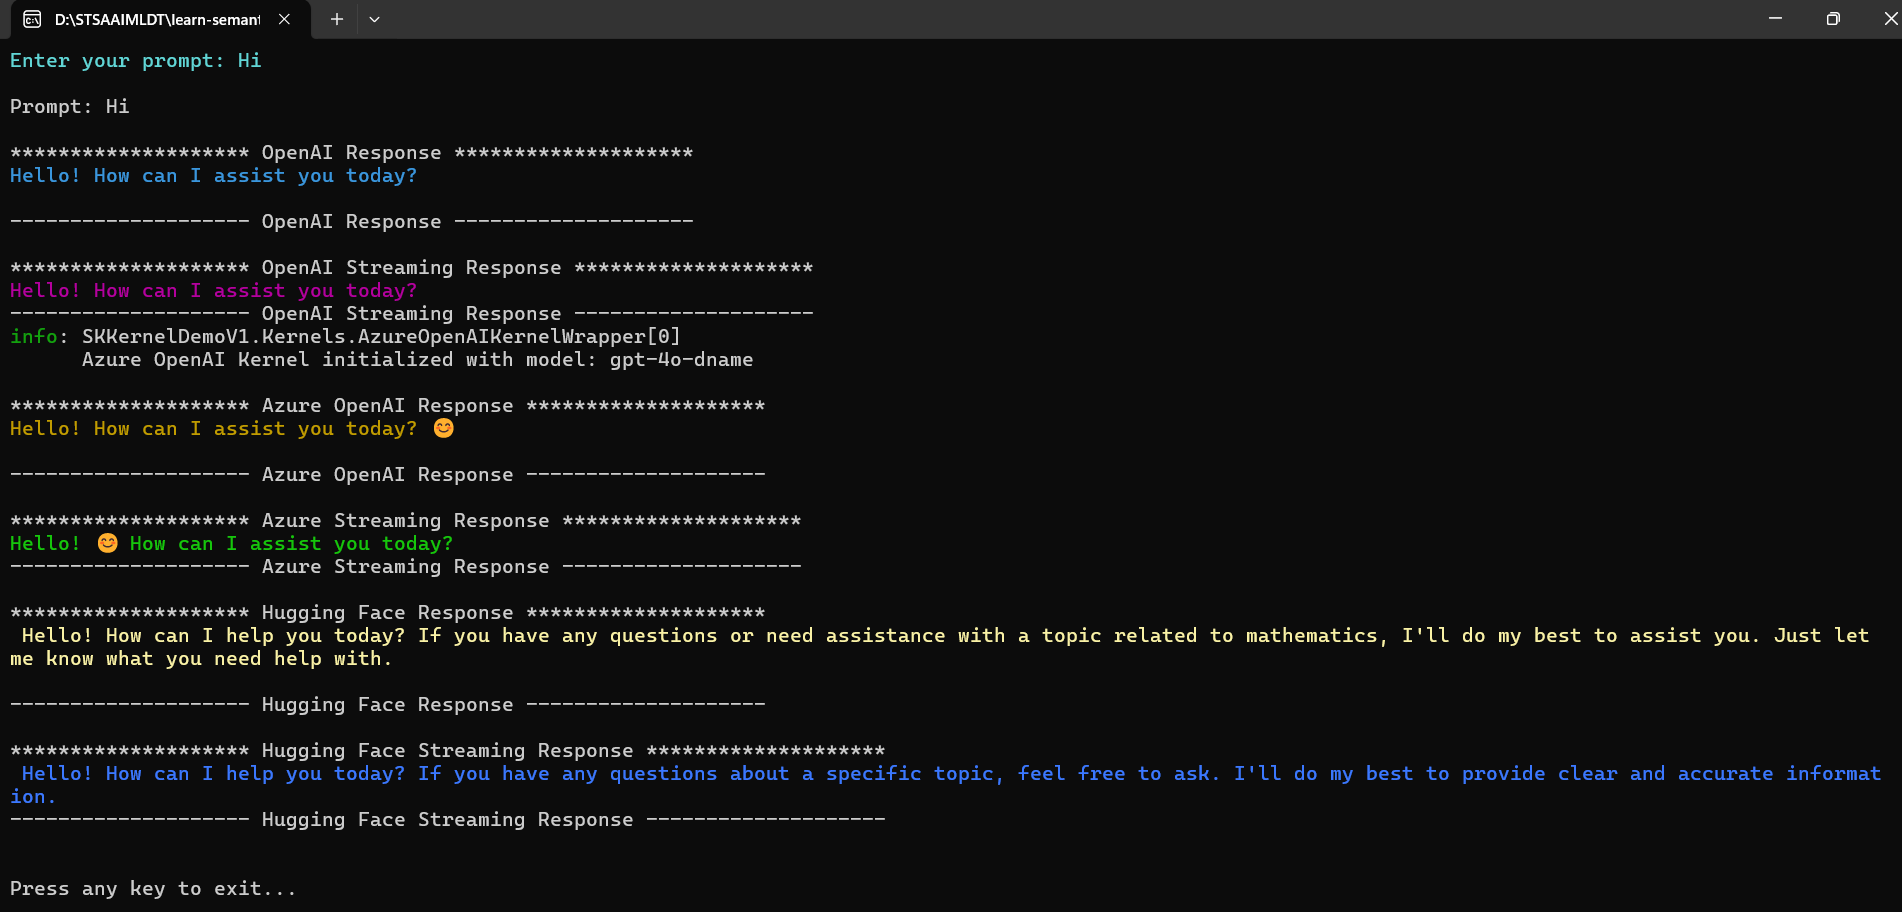
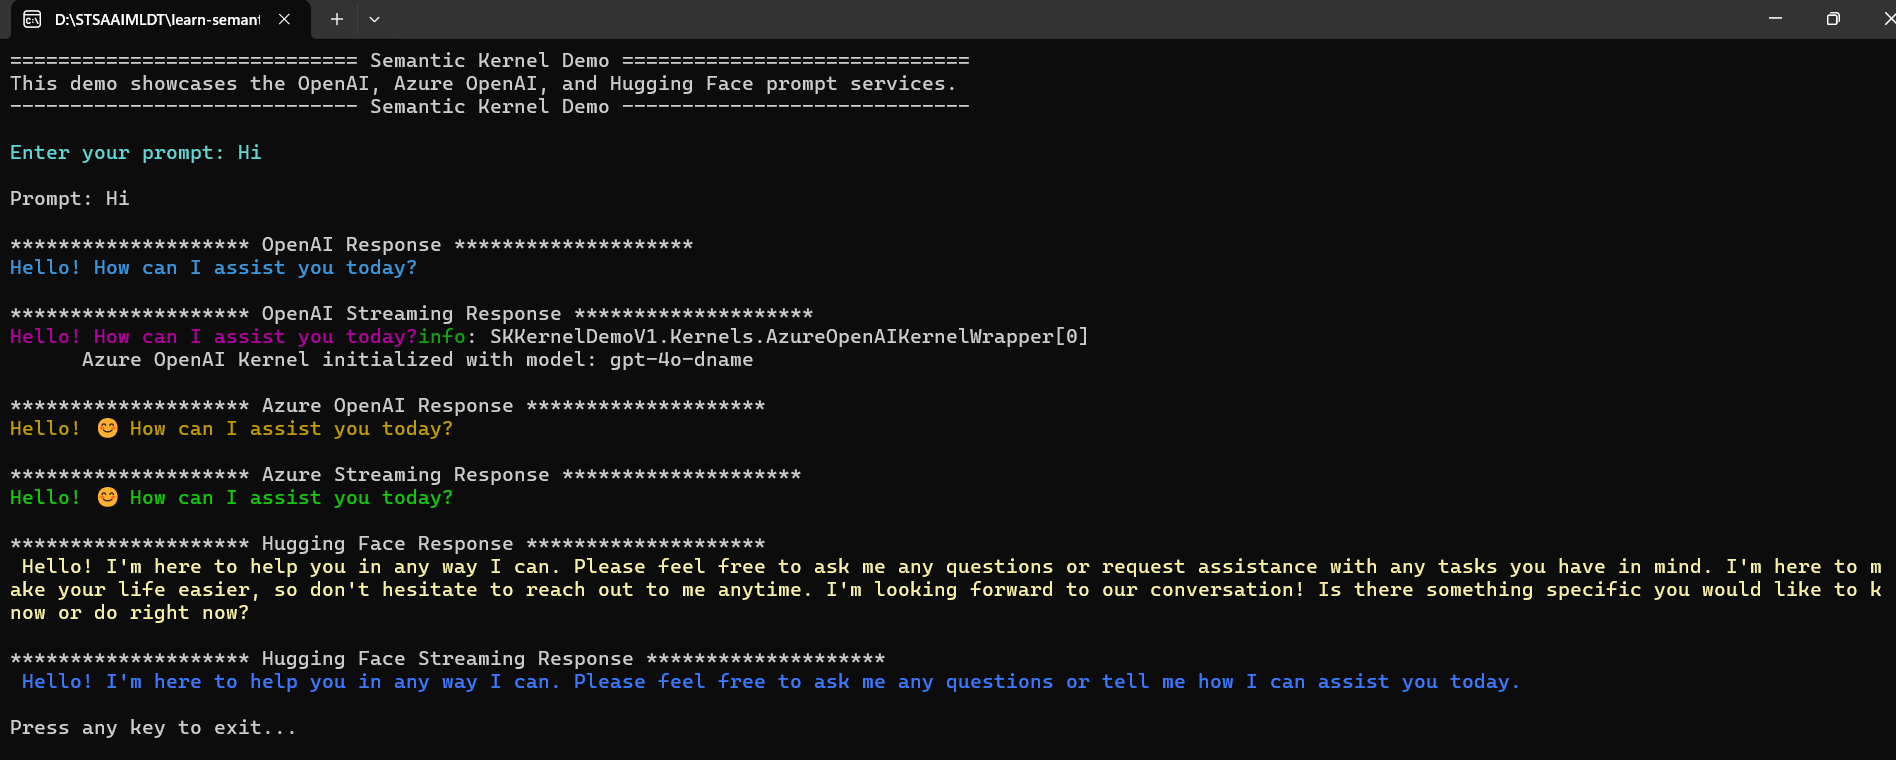
Swamy/06apr work (#11)
* Changes

* Changes

* Code Refactoring

* Code Refactoring

* Documentation

diff --git a/src/MasterSemanticKernelInCS/SKKernelDemoV1/Program.cs b/src/MasterSemanticKernelInCS/SKKernelDemoV1/Program.cs
@@ -1,5 +1,4 @@
 using Microsoft.Extensions.DependencyInjection;
-using Microsoft.SemanticKernel.ChatCompletion;
 using SKKernelDemoV1.Infrastructure;
 using SKKernelDemoV1.Services;
 using System.Text;
@@ -15,8 +14,12 @@ var host = HostBuilderFactory.BuildHost(args);
 
 var openAiService = host.Services.GetRequiredService<IOpenAIPromptService>();
 
+WriteLine("============================= Semantic Kernel Demo =============================");
+WriteLine("This demo showcases the OpenAI, Azure OpenAI, and Hugging Face prompt services.");
+WriteLine("----------------------------- Semantic Kernel Demo -----------------------------");
+
 ForegroundColor = ConsoleColor.Cyan;
-Write("Enter your prompt: ");
+Write("\nEnter your prompt: ");
 string? prompt = ReadLine();
 ResetColor();
 
@@ -28,16 +31,11 @@ if (string.IsNullOrWhiteSpace(prompt))
 
 WriteLine($"\nPrompt: {prompt}");
 
-ChatHistory chatMessages = [];
-chatMessages.AddSystemMessage("You are a helpful assistant.");
-chatMessages.AddUserMessage(prompt);
-
 WriteLine("\n******************** OpenAI Response ********************");
 ForegroundColor = ConsoleColor.DarkCyan;
 string? openAiResponse = await openAiService.GetPromptResponseAsync(prompt).ConfigureAwait(false);
 WriteLine(openAiResponse);
 ResetColor();
-WriteLine("\n-------------------- OpenAI Response --------------------");
 
 WriteLine("\n******************** OpenAI Streaming Response ********************");
 ForegroundColor = ConsoleColor.Magenta;
@@ -46,7 +44,6 @@ await foreach (var chunk in openAiService.StreamPromptResponseAsync(prompt).Conf
     Write(chunk);
 }
 ResetColor();
-WriteLine("\n-------------------- OpenAI Streaming Response --------------------");
 
 var azureService = host.Services.GetRequiredService<IAzurePromptService>();
 
@@ -55,14 +52,6 @@ ForegroundColor = ConsoleColor.DarkYellow;
 string? azureResponse = await azureService.GetPromptResponseAsync(prompt).ConfigureAwait(false);
 WriteLine(azureResponse);
 ResetColor();
-WriteLine("\n-------------------- Azure OpenAI Response --------------------");
-
-WriteLine("\n******************** Azure OpenAI Response - Chat Messages ********************");
-ForegroundColor = ConsoleColor.DarkYellow;
-azureResponse = await azureService.GetPromptResponseAsync(chatMessages).ConfigureAwait(false);
-WriteLine(azureResponse);
-ResetColor();
-WriteLine("\n-------------------- Azure OpenAI Response - Chat Messages --------------------");
 
 WriteLine("\n******************** Azure Streaming Response ********************");
 ForegroundColor = ConsoleColor.Green;
@@ -71,15 +60,13 @@ await foreach (var chunk in azureService.StreamPromptResponseAsync(prompt).Confi
     Write(chunk);
 }
 ResetColor();
-WriteLine("\n-------------------- Azure Streaming Response --------------------");
 
-WriteLine("\n******************** Hugging Face Response ********************");
+WriteLine("\n\n******************** Hugging Face Response ********************");
 ForegroundColor = ConsoleColor.Yellow;
 var huggingFaceService = host.Services.GetRequiredService<IHuggingFacePromptService>();
 string? huggingFaceResponse = await huggingFaceService.GetPromptResponseAsync(prompt).ConfigureAwait(false);
 WriteLine(huggingFaceResponse);
 ResetColor();
-WriteLine("\n-------------------- Hugging Face Response --------------------");
 
 WriteLine("\n******************** Hugging Face Streaming Response ********************");
 ForegroundColor = ConsoleColor.Blue;
@@ -88,7 +75,6 @@ await foreach (var chunk in huggingFaceService.StreamPromptResponseAsync(prompt)
     Write(chunk);
 }
 ResetColor();
-WriteLine("\n-------------------- Hugging Face Streaming Response --------------------");
 
 ResetColor();
 WriteLine("\n\nPress any key to exit...");

diff --git a/src/MasterSemanticKernelInCS/SKKernelDemoV1/Services/HuggingFacePromptService.cs b/src/MasterSemanticKernelInCS/SKKernelDemoV1/Services/HuggingFacePromptService.cs
@@ -1,29 +1,56 @@
 using Microsoft.SemanticKernel;
 using Microsoft.SemanticKernel.ChatCompletion;
+using Microsoft.SemanticKernel.Connectors.HuggingFace;
 using SKKernelDemoV1.Kernels;
 
-namespace SKKernelDemoV1.Services
+#pragma warning disable SKEXP0070
+
+namespace SKKernelDemoV1.Services;
+
+internal sealed class HuggingFacePromptService(HuggingFaceKernelWrapper huggingFaceKernelWrapper) : IHuggingFacePromptService
 {
-    internal sealed class HuggingFacePromptService(HuggingFaceKernelWrapper kernelWrapper) : IHuggingFacePromptService
-    {
-        private readonly IChatCompletionService _chatCompletionService = kernelWrapper.Kernel.GetRequiredService<IChatCompletionService>();
+    private readonly IChatCompletionService _chatCompletionService = huggingFaceKernelWrapper.Kernel.GetRequiredService<IChatCompletionService>() ?? throw new ArgumentNullException("huggingFaceKernelWrapper.Kernel.GetRequiredService<IChatCompletionService>()");
 
-        public async Task<string?> GetPromptResponseAsync(string prompt)
-        {
-            ChatMessageContent result = await _chatCompletionService.GetChatMessageContentAsync(prompt).ConfigureAwait(false);
-
-            return result?.Content;
-        }
-
-        public async IAsyncEnumerable<string?> StreamPromptResponseAsync(string prompt)
-        {
-            await foreach (StreamingChatMessageContent chatUpdate in _chatCompletionService.GetStreamingChatMessageContentsAsync(prompt).ConfigureAwait(false))
+    private static HuggingFacePromptExecutionSettings GetDefaultExecutionSettings() =>
+            new()
             {
-                if (!string.IsNullOrEmpty(chatUpdate.Content))
-                {
-                    yield return chatUpdate.Content;
-                }
+                Temperature = 0.5F,
+                MaxTokens = 150,
+            };
+
+    public async Task<string?> GetPromptResponseAsync(string prompt)
+    {
+        ChatHistory chatMessages = GetChatMessages(prompt);
+
+        ChatMessageContent result = await _chatCompletionService
+                .GetChatMessageContentAsync(chatMessages, GetDefaultExecutionSettings())
+                .ConfigureAwait(false);
+
+        return result?.Content;
+    }
+
+    public async IAsyncEnumerable<string?> StreamPromptResponseAsync(string prompt)
+    {
+        ChatHistory chatMessages = GetChatMessages(prompt);
+
+        await foreach (StreamingChatMessageContent chatUpdate in
+            _chatCompletionService.GetStreamingChatMessageContentsAsync(chatMessages, GetDefaultExecutionSettings())
+            .ConfigureAwait(false))
+        {
+            if (!string.IsNullOrEmpty(chatUpdate.Content))
+            {
+                yield return chatUpdate.Content;
             }
         }
+    }
+
+    private static ChatHistory GetChatMessages(string prompt)
+    {
+        var chatMessages = new ChatHistory();
+
+        chatMessages.AddSystemMessage("You are a helpful assistant.");
+        chatMessages.AddUserMessage(prompt);
+
+        return chatMessages;
     }
 }

diff --git a/src/MasterSemanticKernelInCS/SKKernelDemoV1/Services/OpenAIPromptService.cs b/src/MasterSemanticKernelInCS/SKKernelDemoV1/Services/OpenAIPromptService.cs
@@ -1,29 +1,54 @@
 using Microsoft.SemanticKernel;
 using Microsoft.SemanticKernel.ChatCompletion;
+using Microsoft.SemanticKernel.Connectors.OpenAI;
 using SKKernelDemoV1.Kernels;
 
-namespace SKKernelDemoV1.Services
+namespace SKKernelDemoV1.Services;
+
+internal sealed class OpenAIPromptService(OpenAIKernelWrapper openAIKernelWrapper) : IOpenAIPromptService
 {
-    internal sealed class OpenAIPromptService(OpenAIKernelWrapper kernelWrapper) : IOpenAIPromptService
-    {
-        private readonly IChatCompletionService _chatCompletionService = kernelWrapper.Kernel.GetRequiredService<IChatCompletionService>();
+    private readonly IChatCompletionService _chatCompletionService = openAIKernelWrapper.Kernel.GetRequiredService<IChatCompletionService>() ?? throw new ArgumentNullException("openAIKernelWrapper.Kernel.GetRequiredService<IChatCompletionService>()");
 
-        public async Task<string?> GetPromptResponseAsync(string prompt)
-        {
-            ChatMessageContent result = await _chatCompletionService.GetChatMessageContentAsync(prompt).ConfigureAwait(false);
-
-            return result?.Content;
-        }
-
-        public async IAsyncEnumerable<string?> StreamPromptResponseAsync(string prompt)
-        {
-            await foreach (StreamingChatMessageContent chatUpdate in _chatCompletionService.GetStreamingChatMessageContentsAsync(prompt).ConfigureAwait(false))
+    private static OpenAIPromptExecutionSettings GetDefaultExecutionSettings() =>
+            new()
             {
-                if (!string.IsNullOrEmpty(chatUpdate.Content))
-                {
-                    yield return chatUpdate.Content;
-                }
+                MaxTokens = 150,
+                Temperature = 0.9
+            };
+
+    public async Task<string?> GetPromptResponseAsync(string prompt)
+    {
+        ChatHistory chatMessages = GetChatMessages(prompt);
+
+        ChatMessageContent result = await _chatCompletionService
+                .GetChatMessageContentAsync(chatMessages, GetDefaultExecutionSettings())
+                .ConfigureAwait(false);
+
+        return result?.Content;
+    }
+
+    public async IAsyncEnumerable<string?> StreamPromptResponseAsync(string prompt)
+    {
+        ChatHistory chatMessages = GetChatMessages(prompt);
+
+        await foreach (StreamingChatMessageContent chatUpdate in
+            _chatCompletionService.GetStreamingChatMessageContentsAsync(chatMessages, GetDefaultExecutionSettings())
+            .ConfigureAwait(false))
+        {
+            if (!string.IsNullOrEmpty(chatUpdate.Content))
+            {
+                yield return chatUpdate.Content;
             }
         }
+    }
+
+    private static ChatHistory GetChatMessages(string prompt)
+    {
+        var chatMessages = new ChatHistory();
+
+        chatMessages.AddSystemMessage("You are a helpful assistant.");
+        chatMessages.AddUserMessage(prompt);
+
+        return chatMessages;
     }
 }

diff --git a/src/MasterSemanticKernelInCS/SKKernelDemoV1/Services/AzurePromptService .cs b/src/MasterSemanticKernelInCS/SKKernelDemoV1/Services/AzurePromptService .cs
@@ -1,35 +1,54 @@
 using Microsoft.SemanticKernel;
 using Microsoft.SemanticKernel.ChatCompletion;
+using Microsoft.SemanticKernel.Connectors.AzureOpenAI;
 using SKKernelDemoV1.Kernels;
 
 namespace SKKernelDemoV1.Services;
 
-internal sealed class AzurePromptService(AzureOpenAIKernelWrapper kernelWrapper) : IAzurePromptService
+internal sealed class AzurePromptService(AzureOpenAIKernelWrapper azureOpenAIKernelWrapper) : IAzurePromptService
 {
-    private readonly IChatCompletionService _chatCompletionService = kernelWrapper.Kernel.GetRequiredService<IChatCompletionService>();
+    private readonly IChatCompletionService _chatCompletionService = azureOpenAIKernelWrapper.Kernel.GetRequiredService<IChatCompletionService>() ?? throw new ArgumentNullException("azureOpenAIKernelWrapper.Kernel.GetRequiredService<IChatCompletionService>()");
+
+    private static AzureOpenAIPromptExecutionSettings GetDefaultExecutionSettings() =>
+            new()
+            {
+                MaxTokens = 150,
+                Temperature = 0.9
+            };
 
     public async Task<string?> GetPromptResponseAsync(string prompt)
     {
-        ChatMessageContent result = await _chatCompletionService.GetChatMessageContentAsync(prompt).ConfigureAwait(false);
+        ChatHistory chatMessages = GetChatMessages(prompt);
 
-        return result?.Content;
-    }
-
-    public async Task<string?> GetPromptResponseAsync(ChatHistory chatMessages)
-    {
-        ChatMessageContent result = await _chatCompletionService.GetChatMessageContentAsync(chatMessages).ConfigureAwait(false);
+        ChatMessageContent result = await _chatCompletionService
+                .GetChatMessageContentAsync(chatMessages, GetDefaultExecutionSettings())
+                .ConfigureAwait(false);
 
         return result?.Content;
     }
 
     public async IAsyncEnumerable<string?> StreamPromptResponseAsync(string prompt)
     {
-        await foreach (StreamingChatMessageContent chatUpdate in _chatCompletionService.GetStreamingChatMessageContentsAsync(prompt).ConfigureAwait(false))
+        ChatHistory chatMessages = GetChatMessages(prompt);
+
+        await foreach (StreamingChatMessageContent chatUpdate in
+            _chatCompletionService.GetStreamingChatMessageContentsAsync(chatMessages, GetDefaultExecutionSettings())
+            .ConfigureAwait(false))
         {
             if (!string.IsNullOrEmpty(chatUpdate.Content))
             {
                 yield return chatUpdate.Content;
             }
         }
+    }
+
+    private static ChatHistory GetChatMessages(string prompt)
+    {
+        var chatMessages = new ChatHistory();
+
+        chatMessages.AddSystemMessage("You are a helpful assistant.");
+        chatMessages.AddUserMessage(prompt);
+
+        return chatMessages;
     }
 }

diff --git a/src/MasterSemanticKernelInCS/SKKernelDemoV1/Services/IAzurePromptService.cs b/src/MasterSemanticKernelInCS/SKKernelDemoV1/Services/IAzurePromptService.cs
@@ -1,12 +1,8 @@
-using Microsoft.SemanticKernel.ChatCompletion;
-
-namespace SKKernelDemoV1.Services;
+namespace SKKernelDemoV1.Services;
 
 internal interface IAzurePromptService
 {
     Task<string?> GetPromptResponseAsync(string prompt);
-
-    Task<string?> GetPromptResponseAsync(ChatHistory chatMessages);
 
     IAsyncEnumerable<string?> StreamPromptResponseAsync(string prompt);
 }

diff --git a/README.md b/README.md
@@ -1,9 +1,9 @@
-# learn-semantic-kernel
+# Learn Semantic Kernel
 
 I am learning Semantic Kernel from different Video Courses, Books, and Websites.
 
 ## SK Kernel Demo
 
-![SK Kernel Demo](./docs/images/SKKernelDemo.PNG)
-
 ![SK Kernel Demo](./docs/images/SKKernelChatCompletions.PNG)
+
+![SK Kernel Demo](./docs/images/SKKernelDemo.PNG)
